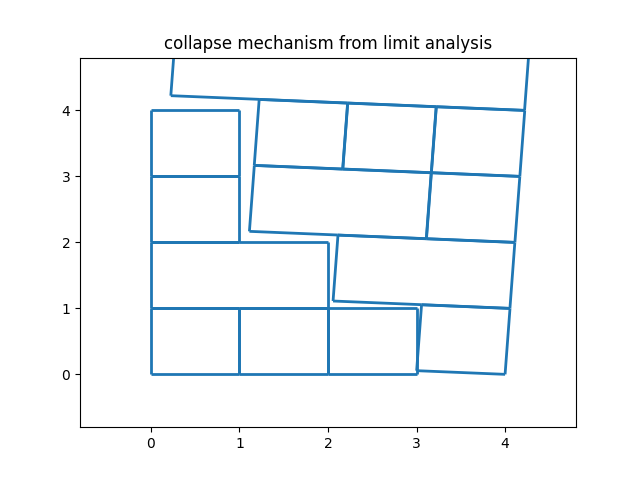
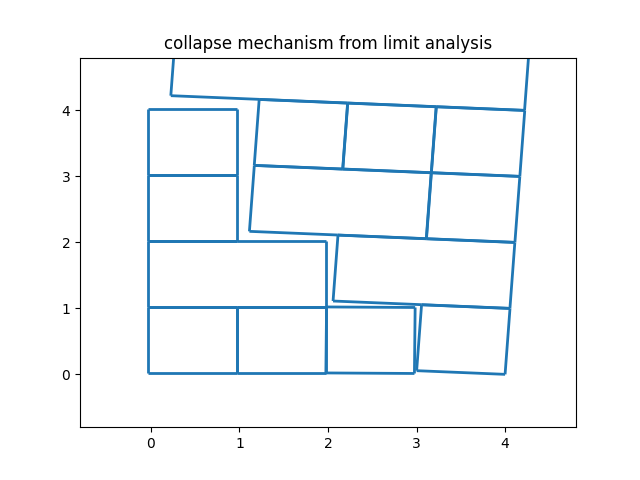
compare with no frictional vertical contact

Changed region(s): [[0.2188, 0.2188, 0.6562, 0.7812]]

diff --git a/grid4_canti_3layouts.py b/grid4_canti_3layouts.py
@@ -110,7 +110,8 @@ elif layout == '3':
 # |_|___|_|
 # |___|___|
 # |_|_|_|_|
-#11.305555555555559
+#11.419514678075792
+
     elems[1,2,10,9,1] = [1]
     elems[3,4,12,11,3] = [1]
     elems[5,6,14,13,5] = [1]
@@ -134,7 +135,7 @@ elif layout == '4':
 # |_|_|___|
 # |___|_|_|
 # |_|_|_|_|
-#10.967432950191572
+#11.227424439243126
     elems[1,2,10,9,1] = [1]
     elems[17,18,26,25,17] = [1]
     elems[3,4,12,20,28,27,19,11,3] = [2]
@@ -156,7 +157,7 @@ elif layout == '5':
 # |_|_|_|_|
 # |___|___|
 # |_|_|_|_|
-#11.04310344827586
+#11.251869922487803
     elems[1,2,10,9,1] = [1]
     elems[17,18,26,25,17] = [1]
     elems[3,4,12,20,28,27,19,11,3] = [2]
@@ -178,8 +179,7 @@ elif layout == '6':
 # |_|_|___|
 # |___| |_|
 # |_|_|_|_|
-#10.967432950191577
-#11.04310344827586
+#11.286324310041346
     elems[1,2,10,9,1] = [1]
     elems[3,4,12,11,3] = [1]
     elems[5,6,14,13,5] = [1]
@@ -201,7 +201,7 @@ elif layout == '7':
 # |_|_|_|_|
 # |_|___|_|
 # |___|___|
-#10.544464609800363
+#11.554451006525497
     elems[1,2,10,9,1] = [1]
     elems[3,4,12,11,3] = [1]
     elems[5,6,14,13,5] = [1]
@@ -536,7 +536,7 @@ def cal_Y(conts):
                 index+=1
         else:
             for i in range(4):
-                Y[index*3:index*3+3, index*2:index*2+2] = yunit_no_fric
+                Y[index*3:index*3+3, index*2:index*2+2] = yunit
                 index+=1
     return Y        
 #print(Y)

diff --git a/readme.md b/readme.md
@@ -90,6 +90,21 @@ Another layout has the most efficiency, with the least number of actions to fill
 
 
 More configurations and their load multiplier:
+11.554451006525497
+![7](./figures/study2_7_mechanism.png)
+11.419514678075792
+![3](./figures/study2_3_mechanism.png)
+11.286324310041346
+![6](./figures/study2_6_mechanism.png)
+11.251869922487803
+![5](./figures/study2_5_mechanism.png)
+11.227424439243126
+![4](./figures/study2_4_mechanism.png)
+
+
+
+But if the mu of vertical contacts are set to zero(no friction), the load multiplier order from large to small:
+
 11.305555555555559
 ![3](./figures/study2_3_mechanism.png)
 11.04310344827586
@@ -98,5 +113,5 @@ More configurations and their load multiplier:
 ![4](./figures/study2_4_mechanism.png)
 10.967432950191577
 ![6](./figures/study2_6_mechanism.png)
-10.544464609800363
+10.544464
 ![7](./figures/study2_7_mechanism.png)
